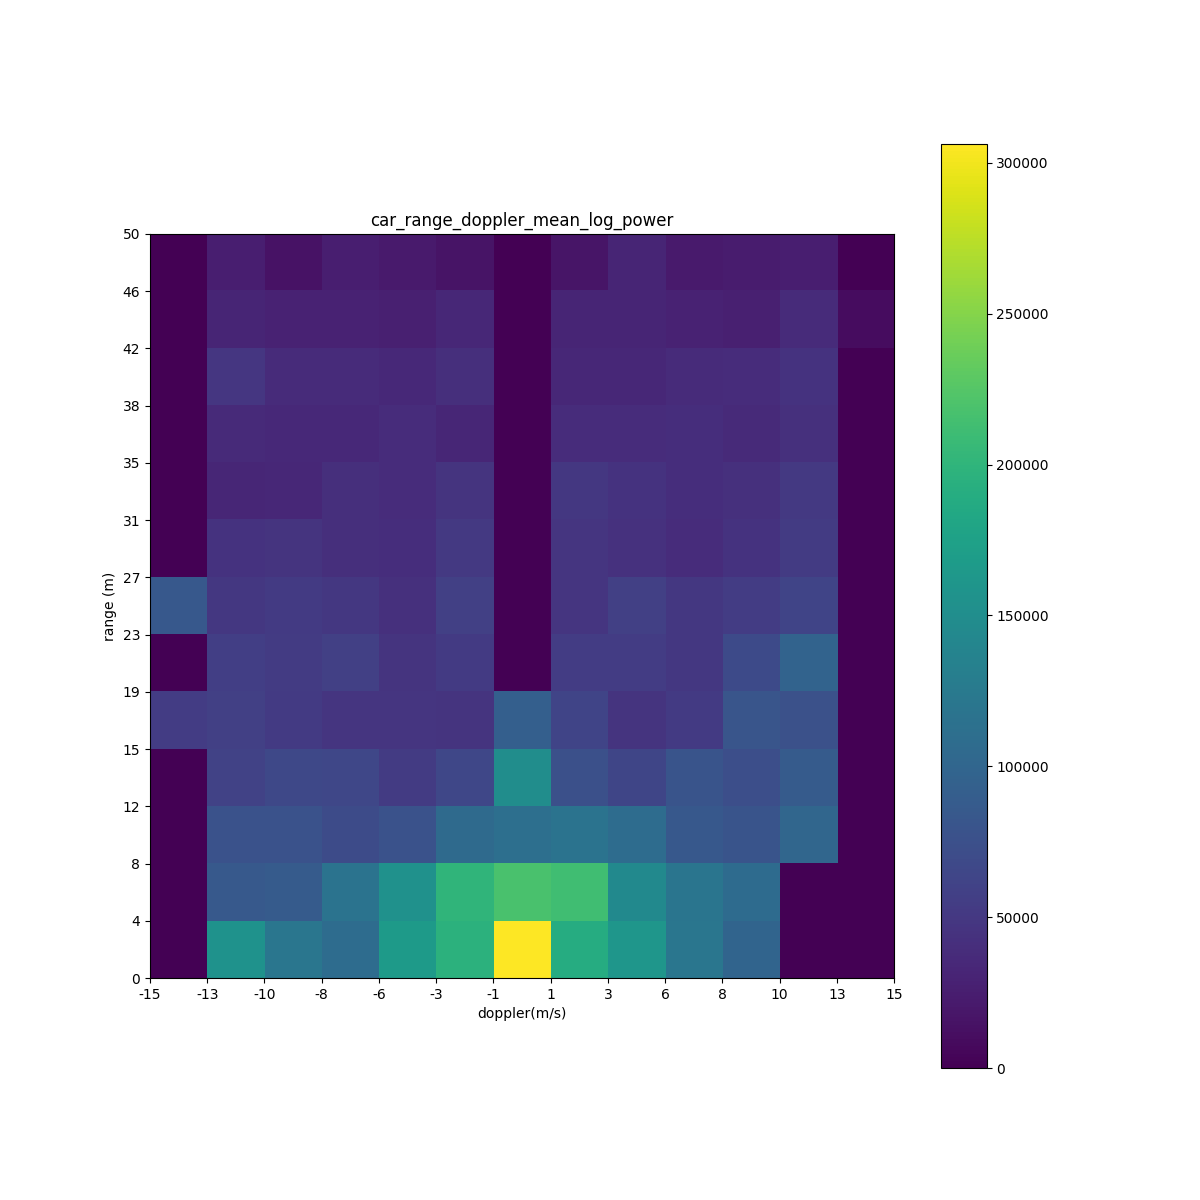
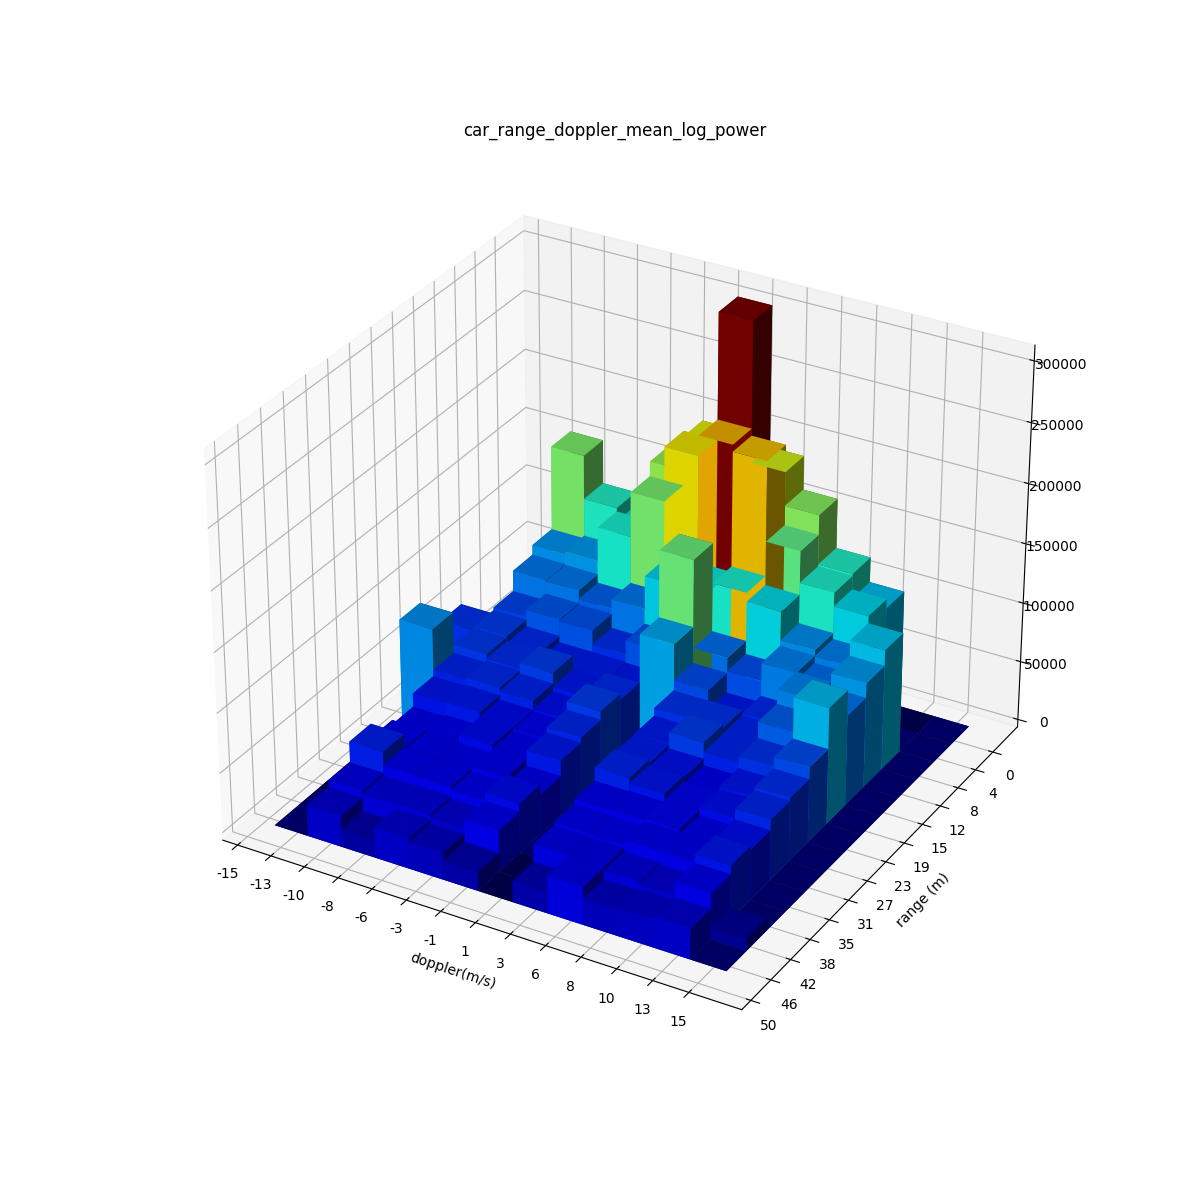
Update data investigation

diff --git a/logs/carrada_data_stat/data_stat_2D_visualize.py b/logs/carrada_data_stat/data_stat_2D_visualize.py
@@ -1,6 +1,7 @@
 import numpy as np
 import json
 import matplotlib.pyplot as plt
+import matplotlib.cm as cm
 from utils_for_investigate import *
 from sklearn import metrics
 
@@ -37,7 +38,7 @@ for cls in classes:
 
             power_data = data_stat[cls][view]["power"]
             area_data = data_stat[cls][view]["area"]
-            mean_power = [[0 for i in range(grid_size)] for j in range(grid_size)]  
+            mean_power = np.asarray([np.asarray([0 for i in range(grid_size)]) for j in range(grid_size)])
             std_power = [[0 for i in range(grid_size)] for j in range(grid_size)]
             for i in range(len(power_data)):
                 for j in range(len(power_data[i])):
@@ -46,9 +47,25 @@ for cls in classes:
                         mean_power[i][j] = np.nanmean(grid)
                         std_power[i][j] = np.nanstd(grid)
             
+            x_data, y_data = np.meshgrid(np.arange(mean_power.shape[1]),
+                                         np.arange(mean_power.shape[0]))
+            x_data = x_data.flatten()
+            y_data = y_data.flatten()
+            mean_power = mean_power.flatten()
+
+            # im = axes.imshow(mean_power)
+            cmap = cm.get_cmap('jet') # Get desired colormap - you can change this!
+            max_height = np.max(mean_power)   # get range of colorbars so we can normalize
+            min_height = np.min(mean_power)
+            # scale each z to [0,1], and get their rgb values
+            rgba = [cmap((k-min_height)/max_height) for k in mean_power] 
+
             # print(mean_power)
-            axes = figure.add_subplot(111)
-            im = axes.imshow(mean_power)
+            axes = figure.add_subplot(111, projection="3d")
+            axes.bar3d( x_data,
+                        y_data,
+                        np.zeros(len(mean_power)),
+                        1, 1, mean_power, color=rgba)
             axes.set_xticks(np.arange(-.5, viz_grid_size, 1))
             axes.set_yticks(np.arange(-.5, viz_grid_size, 1))
             axes.set_xticklabels(axes_grid[view_list[1]])
@@ -57,7 +74,7 @@ for cls in classes:
             axes.set_xlabel(view_list[1] + "({})".format(units[view_list[1]]))
             axes.set_ylabel("range (m)")
             axes.set_title(cls+"_"+view+"_mean_log_power")
-            figure.colorbar(im)
+            # figure.colorbar(im)
 
             # axes = figure.add_subplot(122)
             # if (use_bar_plot):
